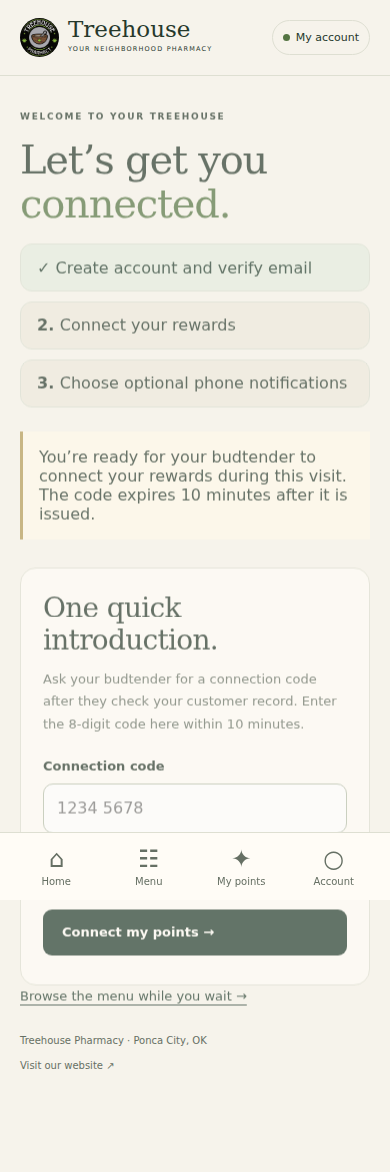
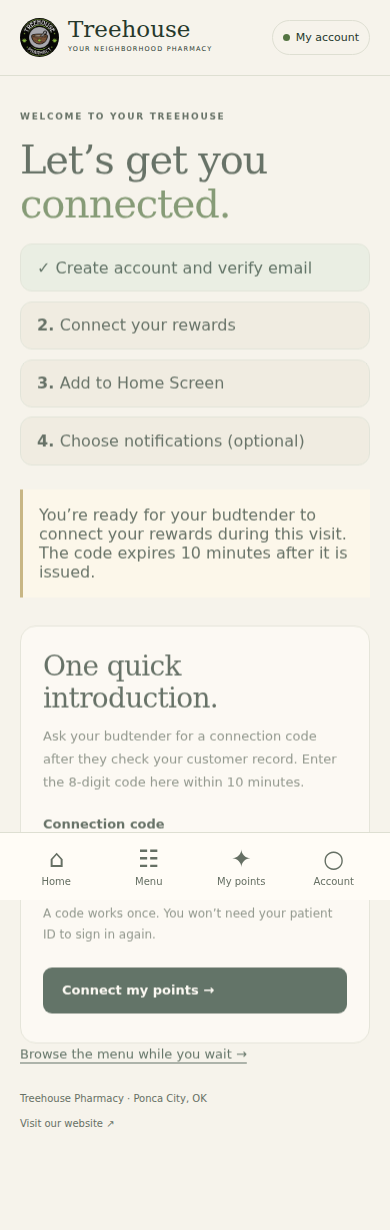
Guide Home Screen installation before notification setup
Make adding Treehouse a separate setup step. Offer the browser install prompt when available and illustrated iPhone, Android and desktop instructions otherwise. Check the step only in the installed app and keep notification consent optional.

Share the guide with Account, handle dismissed or failed prompts, and cover the flow with browser checks and updated screenshots. No database or configuration changes.

diff --git a/assets/customer/app.js b/assets/customer/app.js
@@ -12,6 +12,7 @@ if (from.length) { const clean = new URL(location.href); clean.searchParams.dele
 // A section or brand to show when a notification opens the menu, applied once the menu is loaded.
 let menuLink = null;
 let category = 'All', menuError = '', generation = 0, pendingInstall = null, menuLoading = false, pointsLoading = false;
+let installing = false, installHelpOpen = false, installMessage = '';
 // The cart holds only public menu choices, in memory. Order status is account data.
 const MAX_ITEMS = 10;
 let cart = [], order = null, orderLoading = false, orderNote = '', orderLicense = '';
@@ -132,7 +133,9 @@ function rewardTiersPanel() {
 // Order-ready notifications (Web Push). iPhone only allows them once the app is on the Home Screen.
 let pushSubscribed = false;
 const canPush = () => !demo && Boolean(config.pushKey) && 'serviceWorker' in navigator && 'PushManager' in window && 'Notification' in window;
-const iosBrowserTab = () => /iPhone|iPad|iPod/.test(navigator.userAgent) && !matchMedia('(display-mode: standalone)').matches && !navigator.standalone;
+const standalone = () => matchMedia('(display-mode: standalone)').matches || Boolean(navigator.standalone);
+const appleMobile = () => /iPhone|iPad|iPod/.test(navigator.userAgent) || (/Macintosh/.test(navigator.userAgent) && navigator.maxTouchPoints > 1);
+const iosBrowserTab = () => appleMobile() && !standalone();
 const pushKeyBytes = () => Uint8Array.from(atob(config.pushKey.replace(/-/g, '+').replace(/_/g, '/')), c => c.charCodeAt(0));
 async function currentPushSubscription() {
   if (!('serviceWorker' in navigator) || !('PushManager' in window)) return null;
@@ -336,28 +339,86 @@ async function loadVerification() {
   catch { /* The continue and shop-help actions remain usable. */ }
   finally { verificationBusy = false; if (current === generation) renderAccount(); }
 }
-const standalone = () => matchMedia('(display-mode: standalone)').matches || Boolean(navigator.standalone);
-function installGuidance() {
-  const panel = el('div', '', 'setup-install');
-  if (standalone()) { panel.append(el('p', '✓ You opened the app from its Home Screen icon.')); return panel; }
-  panel.append(el('h3', 'Keep Treehouse on your Home Screen'),
-    el('p', 'This is optional for points and ordering. On iPhone, add the app and open its icon before turning on notifications.'));
-  if (pendingInstall) panel.append(button('Add Treehouse to Home Screen', async () => {
-    await pendingInstall.prompt(); pendingInstall = null; renderSetup(); $('install-button').hidden = true;
-  }, 'secondary-button'));
-  const steps = el('ol');
-  for (const text of iosBrowserTab()
-    ? ['In Safari, open Share (it may be under the menu button).', 'Choose Add to Home Screen, then Add.', 'Open the new Treehouse icon. Use the same account if asked to sign in.']
-    : /Android/i.test(navigator.userAgent)
-      ? ['Open the browser menu and choose Install app or Add to Home screen.', 'Open the Treehouse icon. Use the same account if asked to sign in.']
-      : ['On a computer, use Install app in your browser menu if it is offered.', 'For phone notifications, open treehousepharmacy.com/app on your phone and sign in with this same account.']) steps.append(el('li', text));
-  panel.append(steps); return panel;
+// Simple illustrations accompany real browser actions; they never imitate an install dialog.
+function installPicture(kind) {
+  const frame = el('span', '', 'install-picture'); frame.setAttribute('aria-hidden', 'true');
+  if (kind === 'app') {
+    const icon = el('img'); icon.src = '/images/img6.png'; icon.alt = ''; icon.width = 48; icon.height = 48; frame.append(icon);
+  } else {
+    const svg = document.createElementNS('http://www.w3.org/2000/svg', 'svg');
+    for (const [key, value] of Object.entries({ viewBox: '0 0 32 32', fill: 'none', stroke: 'currentColor', 'stroke-width': '2', 'stroke-linecap': 'round', 'stroke-linejoin': 'round', focusable: 'false' })) svg.setAttribute(key, value);
+    const path = document.createElementNS(svg.namespaceURI, 'path');
+    path.setAttribute('d', ({ share: 'M16 20V3m-5 5 5-5 5 5M10 13H6v16h20V13h-4', add: 'M9 3h14v26H9ZM13 16h6m-3-3v6M14 25h4', menu: 'M5 8h22M5 16h22M5 24h22' })[kind]);
+    svg.append(path); frame.append(svg);
+  }
+  return frame;
+}
+function installGuidance(setup = false) {
+  const panel = el('section', '', 'setup-install');
+  panel.append(el('h3', `${setup ? '3. ' : ''}Add to Home Screen`));
+  if (standalone()) {
+    panel.append(el('p', '✓ You’re using the installed app.', 'install-complete'));
+    return panel;
+  }
+  panel.append(el('p', iosBrowserTab()
+    ? 'Keep Treehouse one tap away. On iPhone and iPad, open the Home Screen app before turning on notifications.'
+    : 'Keep your menu and points one tap away. Adding the app is optional.'));
+  if (pendingInstall || installing) {
+    const install = button(installing ? 'Opening installation…' : 'Install Treehouse', requestInstall);
+    install.disabled = installing; panel.append(install);
+  }
+  if (installMessage) {
+    const status = el('p', installMessage, 'fine-print'); status.setAttribute('role', 'status'); panel.append(status);
+  }
+  const guide = el('details', '', 'install-guide'); guide.open = installHelpOpen;
+  guide.addEventListener('toggle', () => { if (guide.isConnected) installHelpOpen = guide.open; });
+  guide.append(el('summary', pendingInstall || installing ? 'See installation steps' : 'Add to Home Screen — show me how'));
+  const steps = el('ol', '', 'install-steps');
+  const instructions = iosBrowserTab() ? [
+    ['share', 'Open Share in Safari', 'Open this page in Safari. Tap the Share icon (a square with an up arrow). It may be inside the page menu.'],
+    ['add', 'Add Treehouse', 'Scroll down and tap Add to Home Screen. If you see Open as Web App, turn it on. Then tap Add.'],
+    ['app', 'Open your new icon', 'Tap Treehouse on your Home Screen. Use the same account if asked to sign in. Choose your notifications under Account.']
+  ] : /Android/i.test(navigator.userAgent) ? [
+    ['menu', 'Open your browser menu', 'In Chrome, tap the three dots beside the address bar. If this page opened inside another app, open it in Chrome first.'],
+    ['add', 'Install the app', 'Choose Install app or Add to Home screen, then confirm. If you already added Treehouse, look for its icon on your phone.'],
+    ['app', 'Open Treehouse', 'Tap the new icon. Use the same account if asked to sign in, then choose your notifications under Account.']
+  ] : [
+    ['menu', 'Open your browser menu', 'Look for Install app. On a Mac using Safari, choose File → Add to Dock.'],
+    ['add', 'Confirm, then open Treehouse', 'Follow your browser’s instructions, then open Treehouse from your apps.'],
+    ['app', 'Want it on your phone?', 'Open this app’s address on your phone and use the same account. The installation steps will match your phone.']
+  ];
+  for (const [picture, title, text] of instructions) {
+    const item = el('li'), copy = el('div'); copy.append(el('h4', title), el('p', text));
+    item.append(installPicture(picture), copy); steps.append(item);
+  }
+  guide.append(steps);
+  if (iosBrowserTab()) guide.append(el('p', 'Can’t find Add to Home Screen? Scroll to the bottom of Safari’s Share menu, tap Edit Actions, and add it there.', 'fine-print'));
+  panel.append(guide, el('p', 'You can keep checking points and ordering in your browser.', 'fine-print'));
+  return panel;
+}
+function renderInstallation() {
+  renderSetup();
+  $('account-install').replaceChildren(installGuidance());
+}
+async function requestInstall() {
+  if (!pendingInstall || installing || standalone()) return;
+  // Consume each browser event once, and invoke prompt within the customer's click.
+  const prompt = pendingInstall; pendingInstall = null; installing = true; installMessage = '';
+  renderInstallation();
+  try {
+    const choice = await prompt.prompt() || await prompt.userChoice;
+    installMessage = choice?.outcome === 'accepted'
+      ? 'When the Treehouse icon appears, open it to finish setting up notifications under Account.'
+      : 'You can add Treehouse later. Your points and ordering still work here.';
+  } catch {
+    installMessage = 'The installation prompt couldn’t open. Follow the steps below instead.'; installHelpOpen = true;
+  } finally { installing = false; renderInstallation(); }
 }
 function renderSetup() {
   const target = $('setup-content'); if (!target) return;
   const progress = el('ol', '', 'setup-progress');
   for (const [label, done] of [['Create account and verify email', user.signedIn], ['Connect your rewards', user.linked],
-    ['Choose optional phone notifications', pushSubscribed && marketingTopics().length]]) {
+    ['Add to Home Screen', standalone()], ['Choose notifications (optional)', pushSubscribed]]) {
     const item = el('li', `${done ? '✓ ' : ''}${label}`, done ? 'complete' : ''); progress.append(item);
   }
   target.replaceChildren(progress);
@@ -367,8 +428,15 @@ function renderSetup() {
     target.append(link('Browse the menu while you wait →', '#menu', 'text-button')); return;
   }
   target.append(el('h2', 'Your rewards are connected.'), el('p', points ? `Your balance is ${formatPoints(points.points)} points.` : 'You can now check your points and order ahead.'),
-    link('View my points →', '#rewards', 'primary-button'), installGuidance());
-  const notifications = notificationsPanel(); if (notifications) target.append(notifications);
+    link('View my points →', '#rewards', 'primary-button'), installGuidance(true));
+  if (iosBrowserTab()) {
+    const next = el('section', '', 'account-panel setup-notifications');
+    next.append(el('h3', '4. Choose notifications (optional)'), el('p', 'Open Treehouse from its Home Screen icon, then go to Account to choose order updates and Deals & news.'));
+    target.append(next);
+  } else {
+    const notifications = notificationsPanel();
+    if (notifications) { notifications.querySelector('h3').textContent = '4. Choose notifications (optional)'; target.append(notifications); }
+  }
   target.append(el('p', 'Deals & news is your choice. Points and ordering work without it.', 'fine-print'), link('Finish setup and browse the menu →', '#menu', 'text-button'));
 }
 function linkPanel(inputId = 'connection-code') {
@@ -447,7 +515,7 @@ async function signOut(all = false) {
   cart = []; clearPrivate(); message('You’re signed out.'); location.hash = 'account';
 }
 function renderAccount() {
-  renderSetup();
+  renderInstallation();
   const target = $('account-content'); target.replaceChildren();
   if (!user.signedIn) { target.append(needsVerification ? verificationPanel() : signInPanel()); return; }
   const panel = el('section', '', 'account-panel');
@@ -890,11 +958,14 @@ addEventListener('pageshow', event => { if (event.persisted) void initialize(); 
 document.addEventListener('visibilitychange', () => {
   if (document.hidden) clearPrivate(); else void initialize();
 });
-addEventListener('beforeinstallprompt', event => { if (demo) return; event.preventDefault(); pendingInstall = event; $('install-button').hidden = false; renderSetup(); });
-addEventListener('appinstalled', () => { pendingInstall = null; $('install-button').hidden = true; renderSetup(); });
-$('install-button').addEventListener('click', async () => {
-  if (!pendingInstall) return; await pendingInstall.prompt(); pendingInstall = null; $('install-button').hidden = true;
+addEventListener('beforeinstallprompt', event => {
+  if (demo || standalone()) return;
+  event.preventDefault(); pendingInstall = event; installMessage = ''; renderInstallation();
 });
+addEventListener('appinstalled', () => {
+  pendingInstall = null; installMessage = 'Treehouse has been installed. Open its icon to finish setup under Account.'; renderInstallation();
+});
+matchMedia('(display-mode: standalone)').addEventListener('change', () => { renderAccount(); renderOrder(); });
 if (!demo && 'serviceWorker' in navigator && window.isSecureContext) navigator.serviceWorker.register('/app/sw.js', { scope:'/app/' }).catch(() => {});
 setInterval(() => {
   if (document.hidden) return;

diff --git a/assets/customer/app.css b/assets/customer/app.css
@@ -1611,6 +1611,20 @@ textarea {
 .setup-progress .complete { background: #e5eddf; color: #213b2c; }
 .setup-note { padding: 1rem; border-left: 3px solid #b39b55; background: #fff9e9; }
 .setup-install { padding: 1.2rem 0; }
-.setup-install li { margin: .7rem 0; }
+.setup-install > p { line-height: 1.7; }
+.install-guide { margin: 1rem 0; border: 1px solid var(--setup-border); border-radius: 12px; background: #fffdf7; }
+.install-guide > summary { padding: 1rem; font-weight: 700; line-height: 1.5; }
+.install-guide > summary:focus-visible { outline: 3px solid var(--gold); outline-offset: 3px; border-radius: 12px; }
+.install-guide > .fine-print { margin: 0 1rem 1rem; }
+.install-steps { padding: 0 1rem; list-style: none; counter-reset: install; }
+.install-steps li { counter-increment: install; display: grid; grid-template-columns: 56px minmax(0, 1fr); gap: 1rem; padding: 1rem 0; border-top: 1px solid var(--setup-border); }
+.install-steps h4 { margin: 0 0 .4rem; font-size: 1rem; }
+.install-steps h4::before { content: counter(install) '. '; }
+.install-steps p { margin: 0; font-size: .9rem; line-height: 1.7; }
+.install-picture { display: grid; place-items: center; width: 56px; height: 64px; color: #213b2c; background: #e5eddf; border-radius: 12px; }
+.install-picture svg { width: 32px; height: 32px; }
+.install-picture img { width: 48px; height: 48px; object-fit: contain; }
+.install-complete { color: #213b2c; font-weight: 600; }
+.setup-notifications { margin-top: 1rem; }
 .account-panel form + form { margin-top: .75rem; }
 .verification-panel form { margin: 1rem 0; }

diff --git a/app/index.html b/app/index.html
@@ -253,23 +253,7 @@
         <p class="eyebrow">MAKE YOURSELF AT HOME</p>
         <h1 id="account-title">My <em>Treehouse.</em></h1>
         <div id="account-content"></div>
-        <section class="install-card">
-          <h3>A shortcut to your Treehouse.</h3>
-          <p id="install-copy">
-            Add My Treehouse to your home screen for easy access to your menu
-            and points.
-          </p>
-          <button id="install-button" class="secondary-button" hidden>
-            Add to home screen
-          </button>
-          <details>
-            <summary>How to add it on iPhone</summary>
-            <p>
-              Open this page in Safari, tap Share, then choose Add to Home
-              Screen. Open the new Treehouse icon to use the app.
-            </p>
-          </details>
-        </section>
+        <div id="account-install" class="install-card"></div>
         <details class="privacy-detail">
           <summary>About your account and privacy</summary>
           <p>

diff --git a/SIGNUP-ROLLOUT.md b/SIGNUP-ROLLOUT.md
@@ -4,12 +4,17 @@ Prepared for review on `feature/app-signup-attribution`. The owner authorizes pu
 
 ## What customers and staff see
 
-- A setup page at `/app/#setup`: create an account and verify email, connect rewards, then choose optional phone notifications.
+- A four-step setup page at `/app/#setup`: create an account and verify email, connect rewards, add to Home Screen, then choose optional phone notifications.
 - Separate **Create account** and **Already have an account? Sign in** actions. Auth0 continues to own passwords and recovery.
 - Unverified sign-ins get inbox/spam instructions and a continue button. An optional, secured resend button is available after the extra Auth0 setup below.
 - After entering a valid connection code, the app immediately reloads the linked session and shows points and notification choices.
 - Points and ordering do not require marketing consent. On iPhone, install and reopen the Home Screen app before enabling push notifications; the same account keeps its rewards connection across sign-ins.
 - Existing linked customers continue to land on their points. Unlinked customers land on the setup page.
+- **Install Treehouse** opens the browser's native installation prompt only when a supported browser provides one and the customer taps the button. Dismissal or failure leaves points and ordering available, with manual instructions as a fallback.
+- iPhone/iPad show an illustrated Safari guide: Share → Add to Home Screen → enable **Open as Web App** if offered → Add. Website code cannot open this system installation screen on iOS. Customers reopen the Treehouse icon, sign in to the same account if asked, and choose notifications under **Account** (or return to **Open setup guide**).
+- The Home Screen step is checked only when the app is running in standalone mode. Clicking instructions, accepting the browser prompt, and the `appinstalled` event alone do not mark it complete. This is local display state, not a new CRM installation metric. Installation never opts someone into push or marketing.
+
+The installation update needs only a test branch deployment; it adds no migration, setting, permission, or secret. References: [browser installation prompts](https://developer.mozilla.org/en-US/docs/Web/Progressive_web_apps/Guides/Making_PWAs_installable#triggering_the_install_prompt), [Apple's Home Screen instructions](https://support.apple.com/guide/iphone/iphea86e5236/ios).
 
 Keep the in-person identity check. Have the customer create and verify their account first. Once they reach **Connection code**, the budtender verifies the matching GrowFlow record and generates the existing eight-digit, single-use code. It still expires after ten minutes. Staff do not need customer passwords. Already-linked customers should recover their existing account.
 
@@ -95,6 +100,8 @@ No third-party advertising tracker, patient details, raw IP address or usable lo
 Local, synthetic checks:
 
 Checked on October 6, 2026: 175 backend tests passed; the existing app browser regression suite and new signup/CRM browser suite passed; Cloudflare Pages Functions compiled successfully; all five SVG QR codes rendered and decoded to their intended URLs. Phone email delivery, real iOS/Android installation and notification delivery still require the protected deployment checks below.
+
+The Home Screen update also passed the signup browser suite's iPhone guide, Android prompt acceptance/dismissal/failure, user-click requirement, and standalone completion checks. The existing app browser regression suite passed, and Chromium reported no manifest installability errors on the local build. These synthetic checks do not replace installing from the protected test hostname on actual phones. This UI update adds no backend changes.
 
 ```sh
 npm ci
